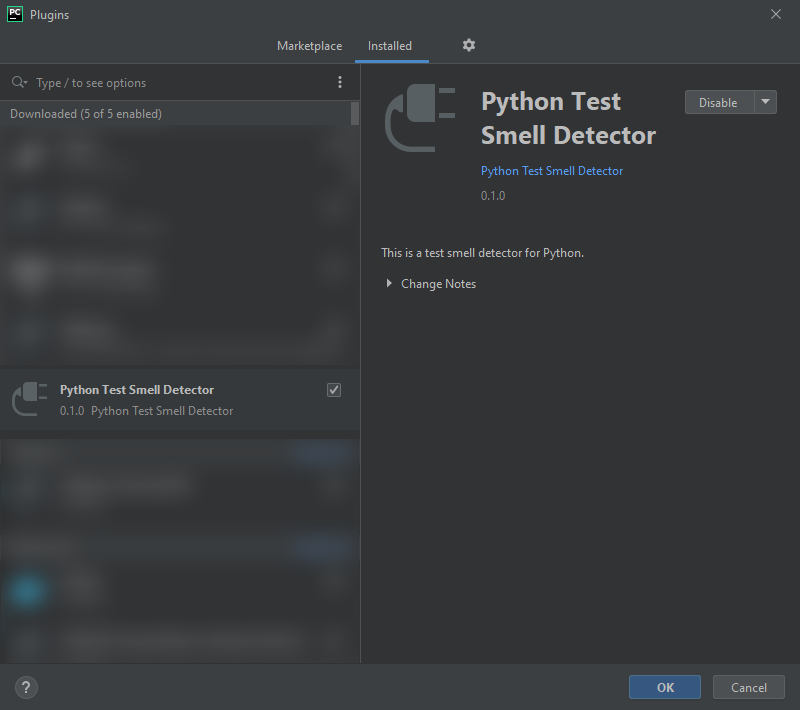
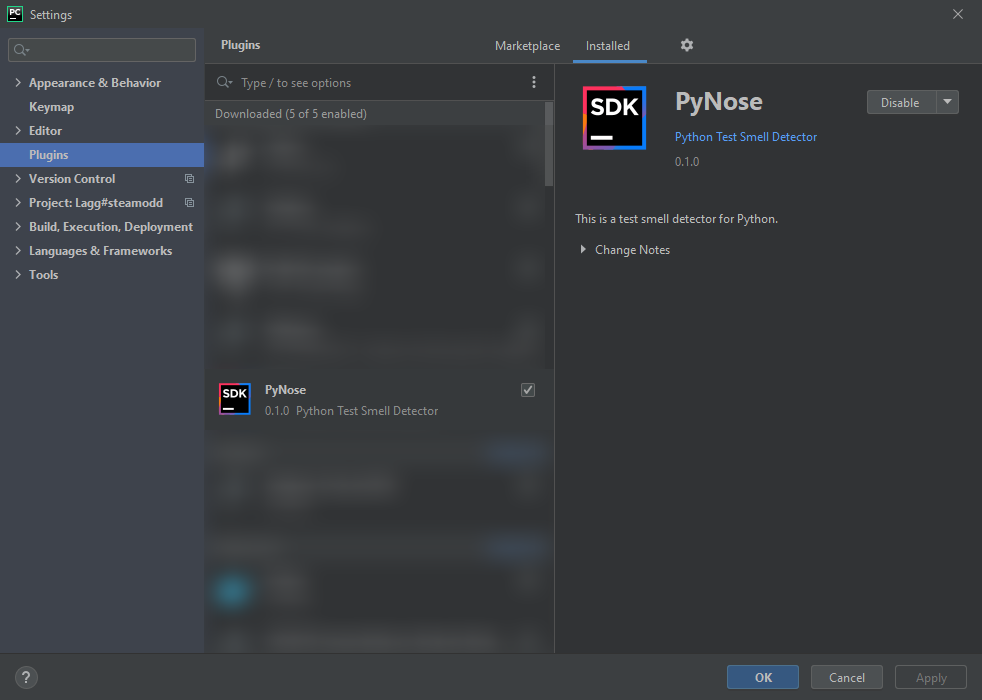
update screenshot

diff --git a/README.md b/README.md
@@ -130,7 +130,7 @@ Click the gear icon at the top and then select "Install Plugin from Disk...".
 
 ![install-from-disk](./README.assets/install-from-disk.png)
 
-Navigate to and then select the `.zip` file just generate. When you see the "Python Test Smell Detector" appears, it means the plugin is successfully installed.
+Navigate to and then select the `.zip` file just generate. When you see the "PyNose" appears, it means the plugin is successfully installed (the icon may be different).
 
 ![plugin-installed](./README.assets/plugin-installed.png)
 
